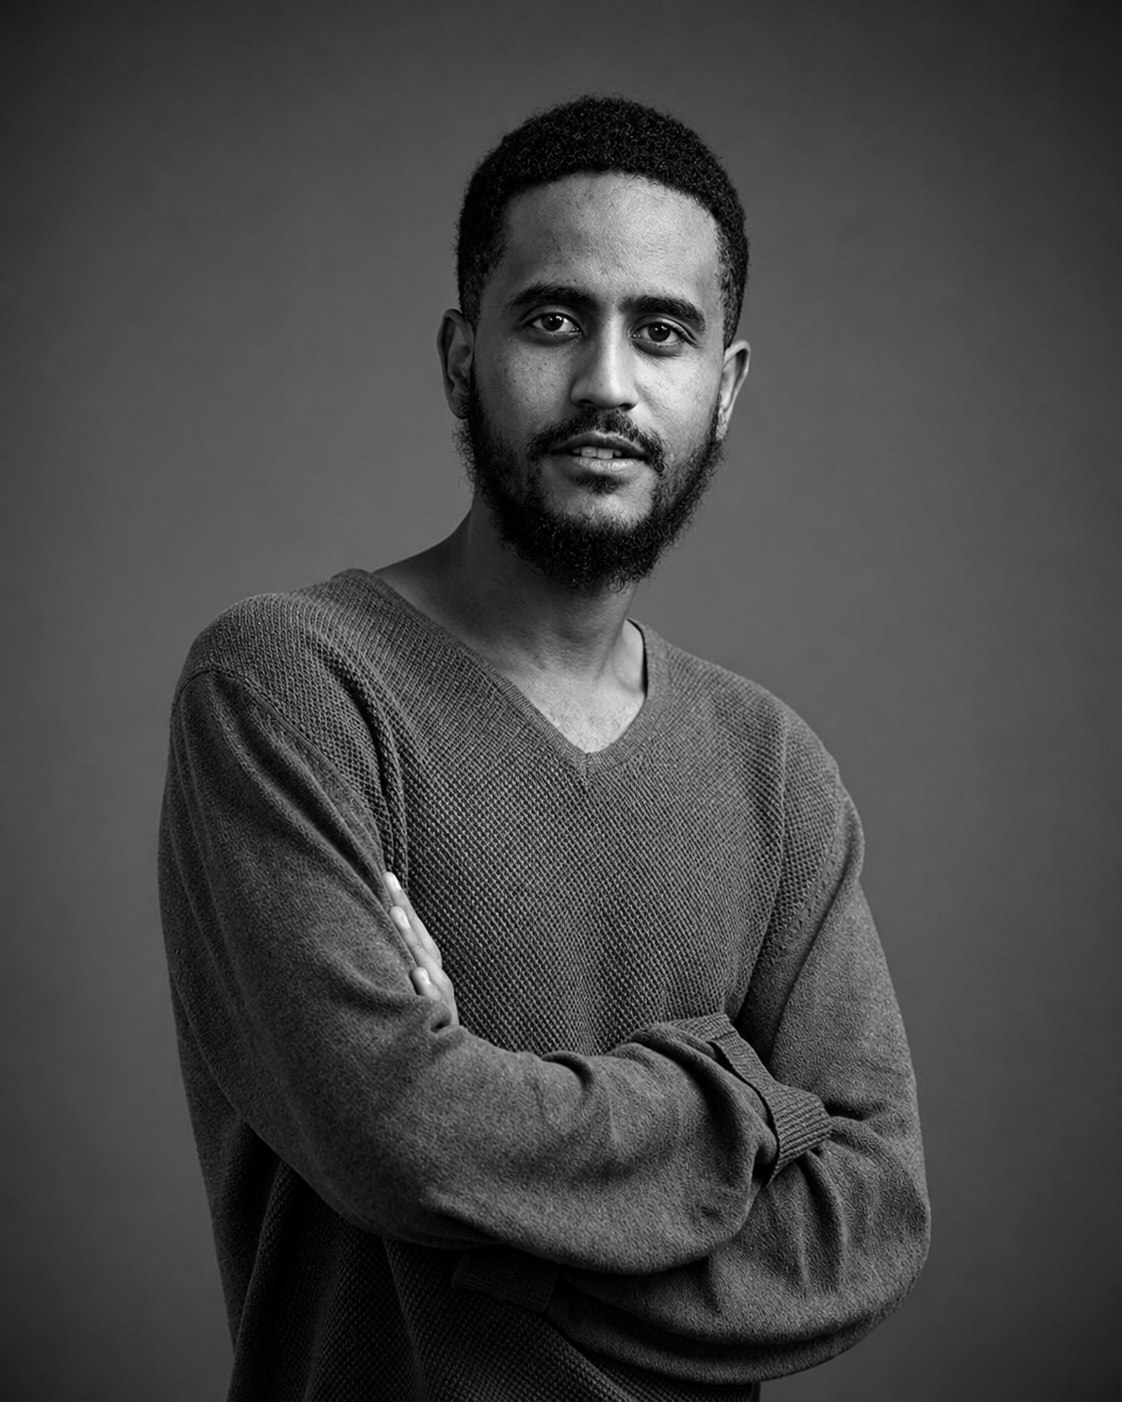
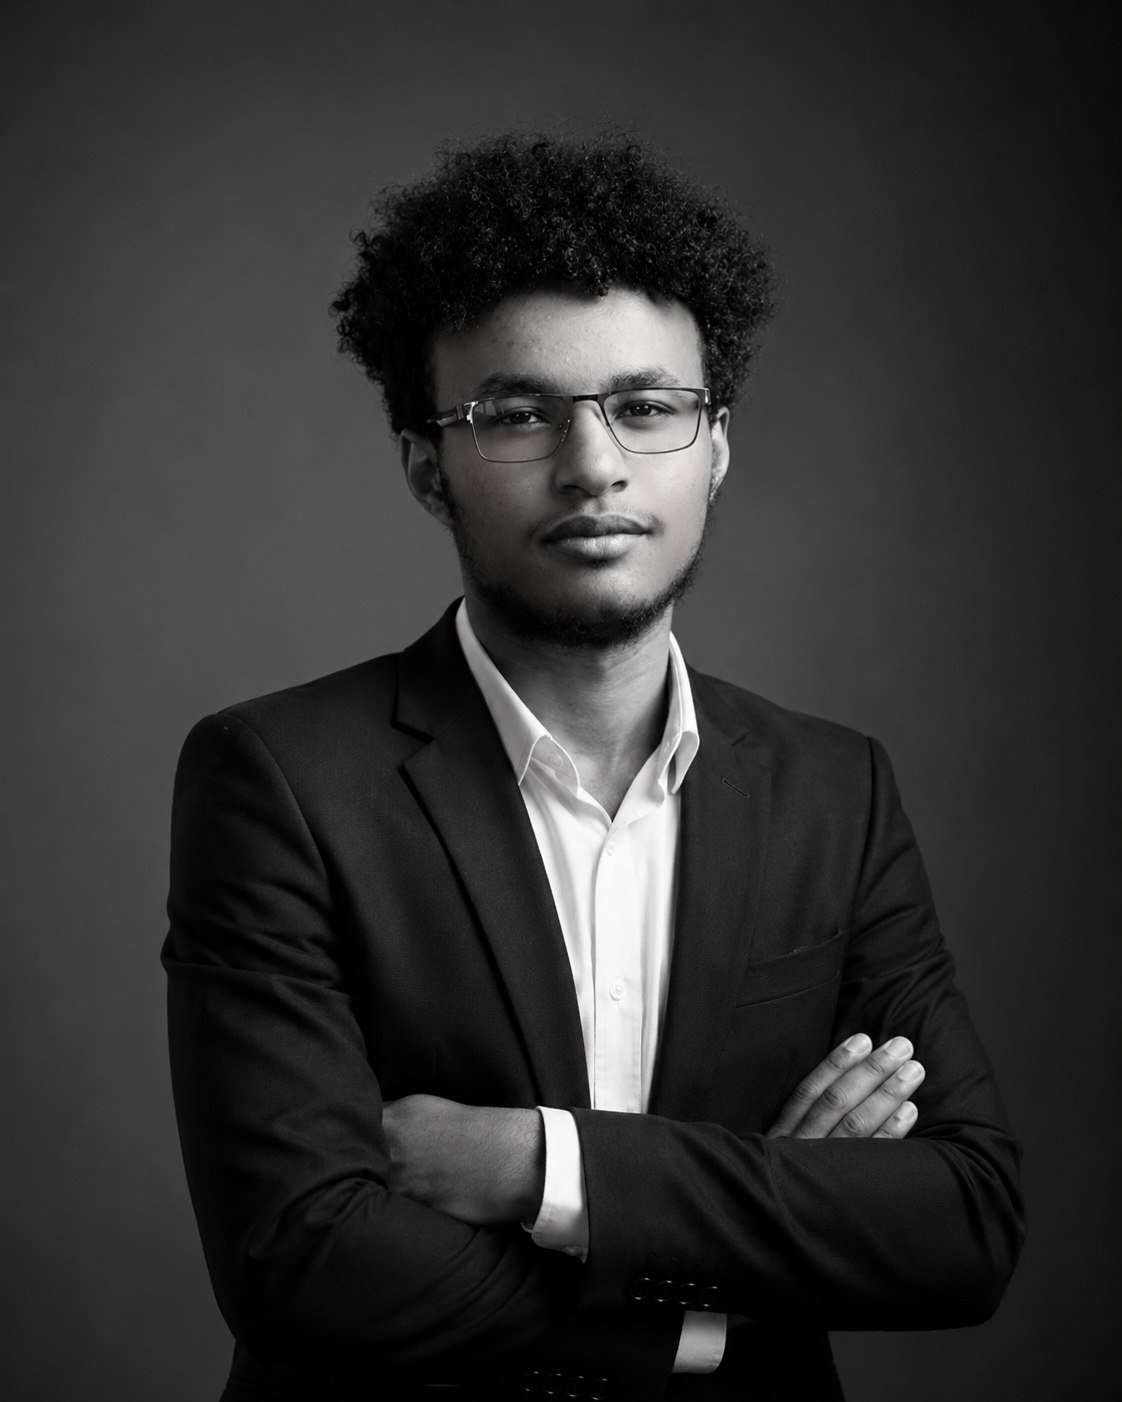
the image have been changed

diff --git a/lib/data.ts b/lib/data.ts
@@ -75,7 +75,7 @@ export const teamMembers: TeamMember[] = [
   {
     name: "Abubeker",
     role: "Video Editor & Graphic Designer",
-    imageSrc: "/images/Abubeker_graphics_designer.jpg",
+    imageSrc: "/images/Abubeker_graphics.jpg",
   },
 ]
 
